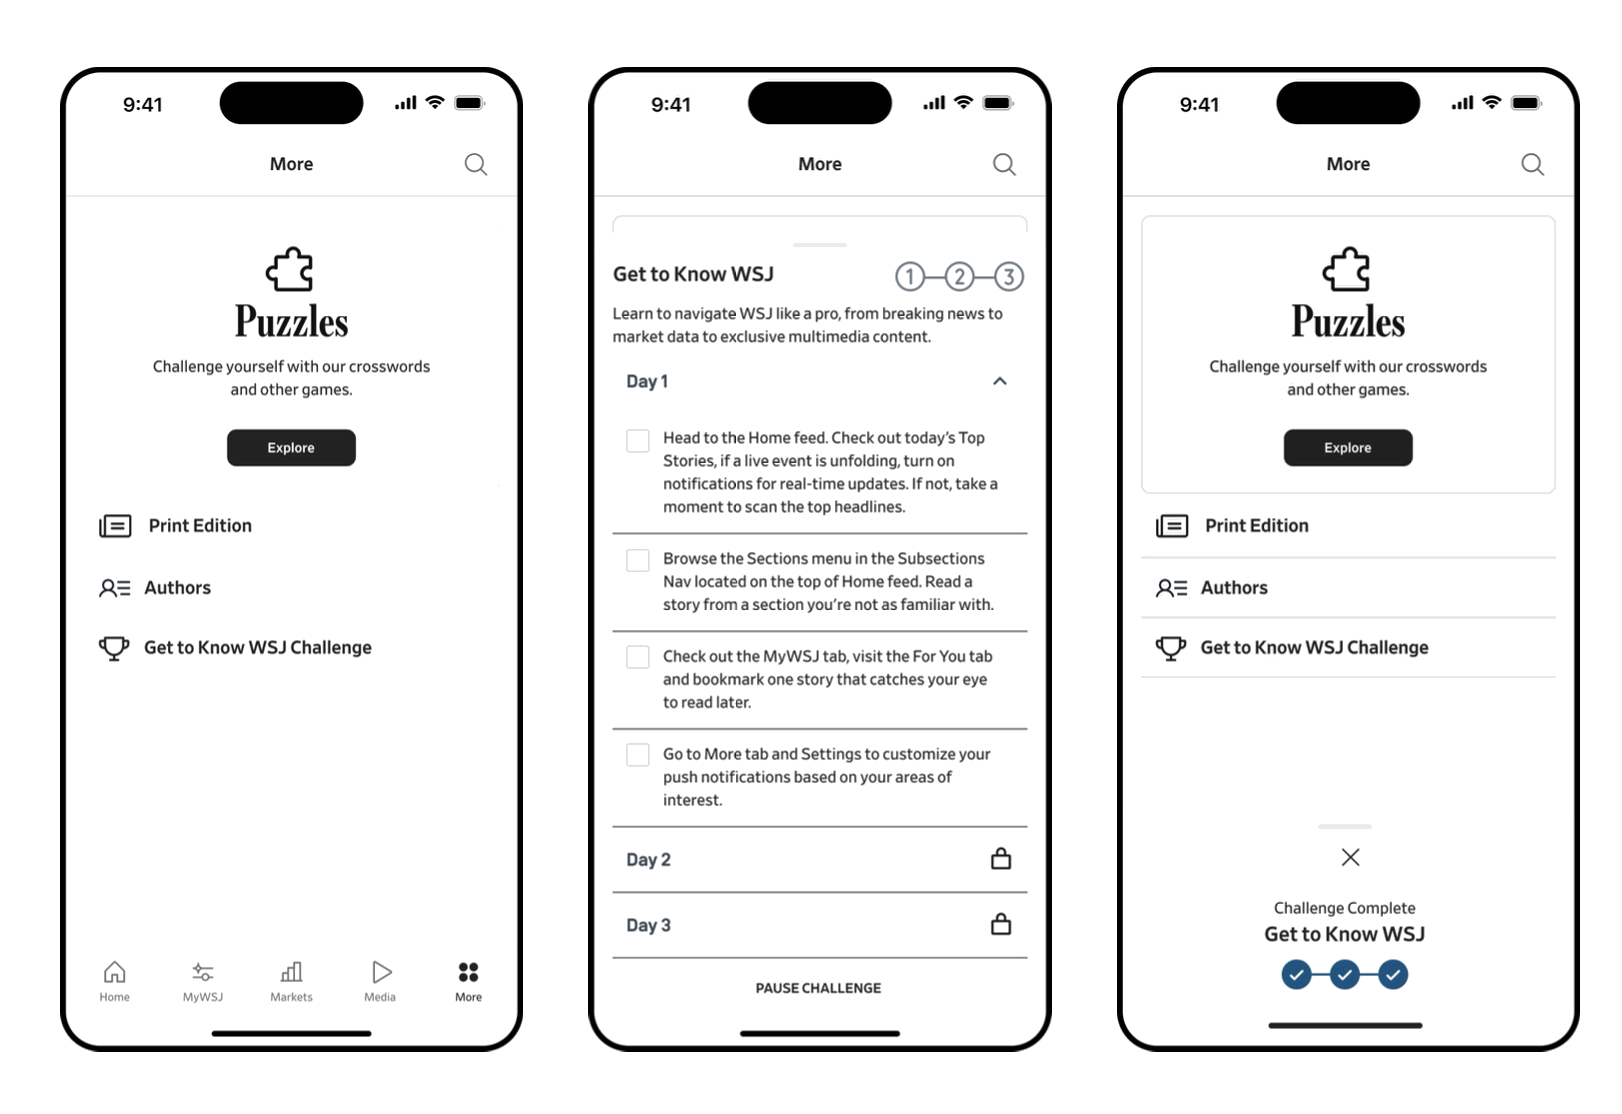
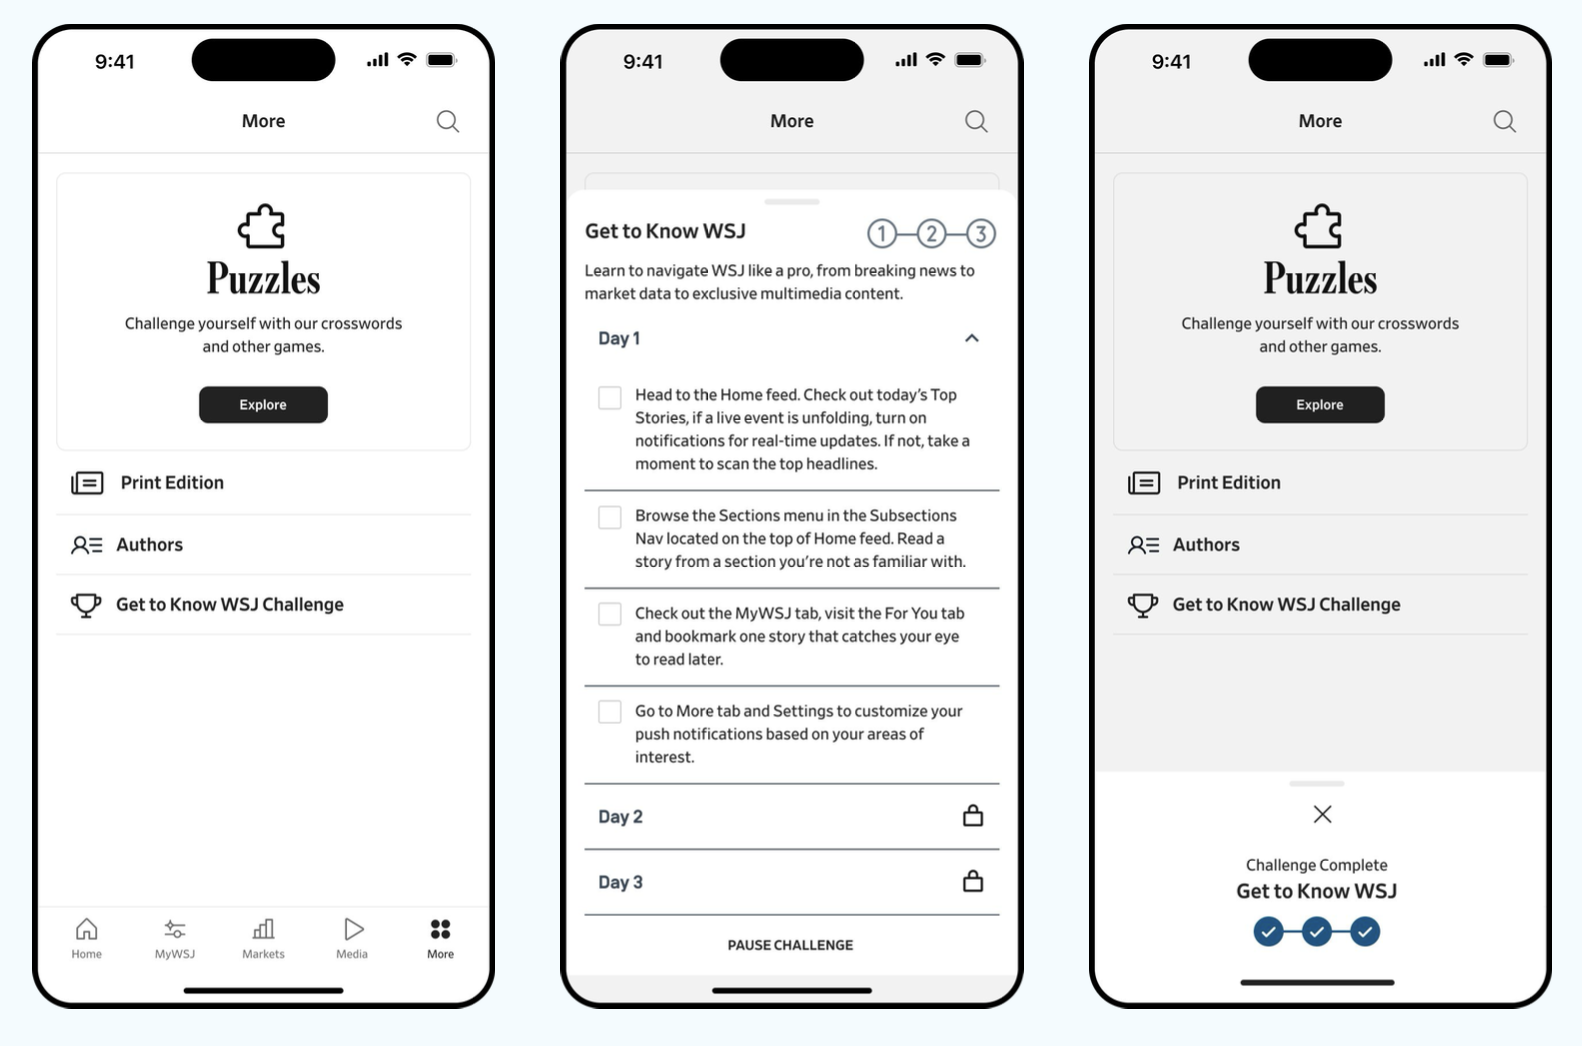
Use new WSJ Challenges screenshot for hero image, update homepage tags to Product/UX/Strategy

diff --git a/src/components/Work.tsx b/src/components/Work.tsx
@@ -93,7 +93,7 @@ export default function Work() {
         <div className="mt-6 grid gap-6 sm:grid-cols-12">
           <div className="sm:col-span-8">
             <p className="font-sans text-xs uppercase tracking-[0.14em] text-clay">
-              Product Design · Research · UX
+              Product · UX · Strategy
             </p>
             <h3 className="mt-3 font-serif text-2xl leading-tight text-ink group-hover:text-clay transition-colors">
               WSJ Challenges

diff --git a/src/app/work/wsj-challenges/page.tsx b/src/app/work/wsj-challenges/page.tsx
@@ -37,7 +37,7 @@ export default function WSJChallenges() {
           src="/work/wsj-challenges-hero.png"
           alt="Three WSJ Beta app screens: the Get to Know WSJ challenge entry point, the Day 1 checklist, and the challenge completion screen"
           caption="Challenge entry point, daily checklist, and completion screen"
-          aspect="aspect-[1622/1114]"
+          aspect="aspect-[1582/1046]"
         />
 
         <TLDR>
